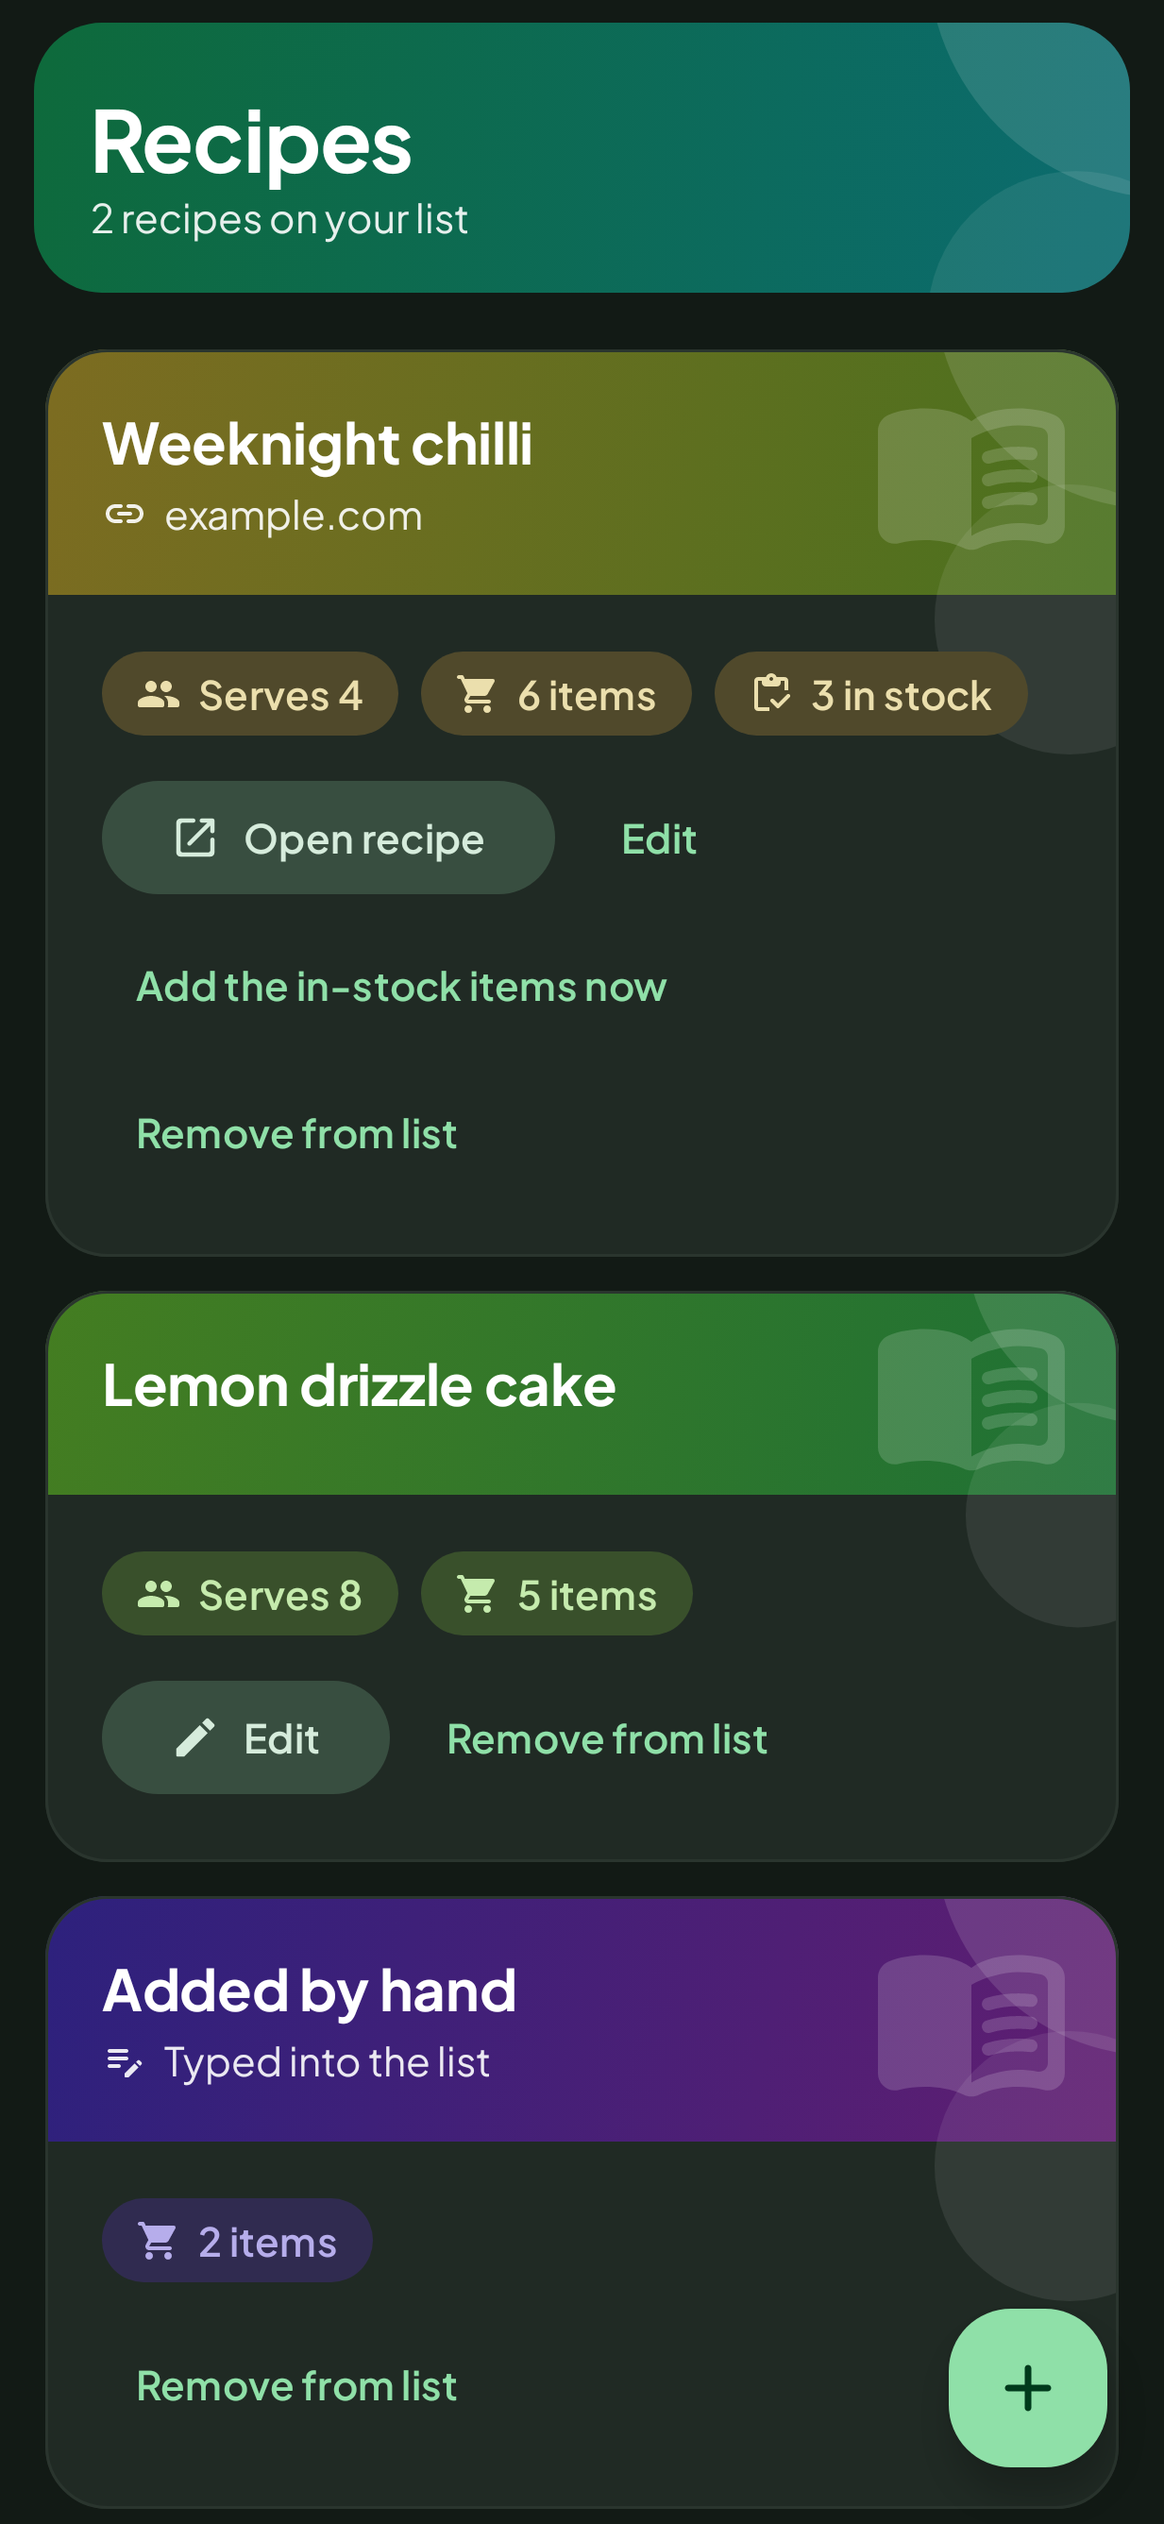
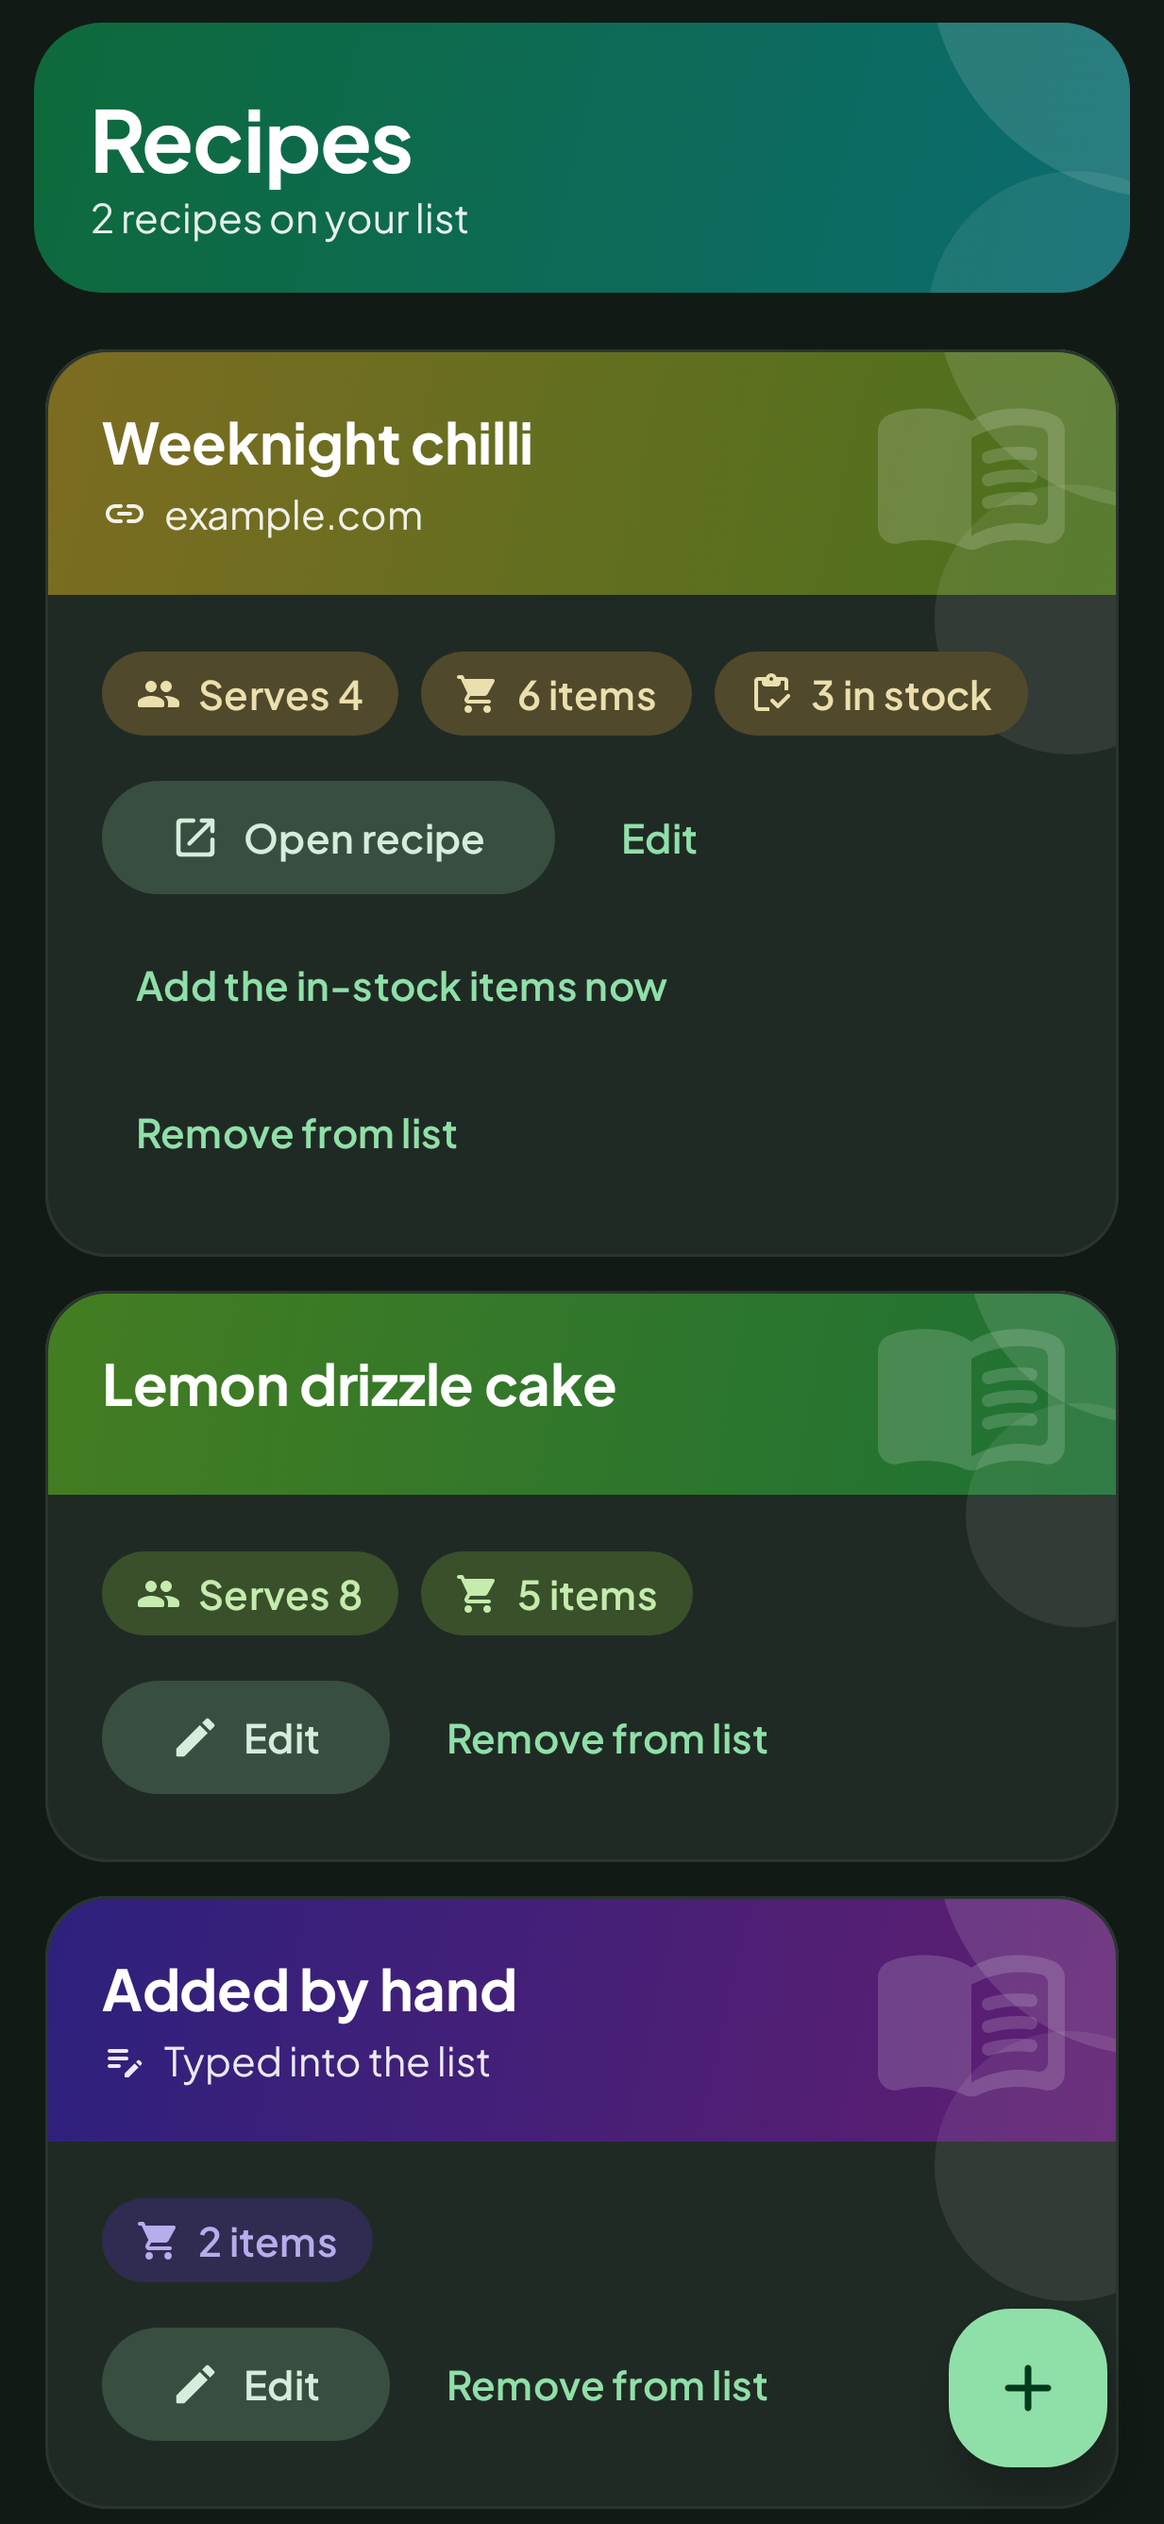
[feature] "Added by hand" can be edited like a recipe (#32)
Edit on the Added by hand card opens the review screen with its items as
lines ("500 g beef mince"): change, remove or add them, mark them in stock,
and Save puts them back as hand-added items. No recipe is kept and nothing
goes into the library, so later typed items still join the same card.
Merger.apply takes the use kind; ListRepository.apply(manual = true) and
manualLines() carry it through.

Claude-Session: https://claude.ai/code/session_016z2Qp5Lw5mkgJm6Jzuit5a

Changed region(s): [[0.0925, 0.9005, 0.6472, 0.9936]]

diff --git a/android/data/src/main/kotlin/com/robert4lyf/hypershop/data/ListRepository.kt b/android/data/src/main/kotlin/com/robert4lyf/hypershop/data/ListRepository.kt
@@ -4,6 +4,7 @@ import androidx.room.withTransaction
 import com.robert4lyf.hypershop.core.catalog.Catalog
 import com.robert4lyf.hypershop.core.catalog.CatalogLoader
 import com.robert4lyf.hypershop.core.merge.ApplyResult
+import com.robert4lyf.hypershop.core.merge.Display
 import com.robert4lyf.hypershop.core.merge.LineStatus
 import com.robert4lyf.hypershop.core.merge.Merger
 import com.robert4lyf.hypershop.core.merge.NewItem
@@ -544,6 +545,26 @@ class ListRepository(
             )
         }
 
+    /**
+     * "Edit" on "Added by hand": its items as lines to review ("500 g mince"), in
+     * list order, or null when [useId] isn't the hand-added use.
+     */
+    suspend fun manualLines(useId: Long): List<String>? =
+        db.withTransaction {
+            val l = load()
+            val use = l.uses[useId]?.takeIf { it.kind == UseKind.MANUAL } ?: return@withTransaction null
+            l.contributions
+                .filter { it.useId == use.id }
+                .groupBy { it.itemId }
+                .mapNotNull { (itemId, cs) -> l.items[itemId]?.takeIf { it.deletedAt == null }?.let { it to cs } }
+                .sortedBy { (item, _) -> item.position }
+                .map { (item, cs) ->
+                    val total = cs.map { it.qty }.reduce { a, b -> a + b }
+                    val produce = item.aisle == AisleCode.PRODUCE
+                    listOfNotNull(Display.amount(total, produce = produce, hint = cs.last().unitHint), item.displayName).joinToString(" ")
+                }
+        }
+
     /** The list a review shows against: without [replacing], the use an edit replaces. */
     private fun without(
         l: ShoppingList,
@@ -583,15 +604,25 @@ class ListRepository(
         replacing: Long? = null,
         /** False for part of a recipe ("Add the in-stock items now"): the library keeps the whole one. */
         toLibrary: Boolean = true,
+        /** An edit of "Added by hand": the lines go back as hand-added items, with no recipe kept. */
+        manual: Boolean = false,
     ): ApplyResult =
         db.withTransaction {
             val old = load()
             val oldRecipe = replacing?.let { old.uses[it]?.recipeId }
-            when (val r = merger.apply(without(old, replacing), preview, clock())) {
+            val kind = if (manual) UseKind.MANUAL else UseKind.RECIPE
+            when (val r = merger.apply(without(old, replacing), preview, clock(), kind)) {
                 is ApplyResult.Applied -> {
                     persist(old, r.list)
-                    dao.putDecisions(preview.lineStatus.map { (line, s) -> LineDecisionEntity(r.useId, line, s.name) })
                     jobId?.let { dao.setJobState(it, "DONE") }
+                    if (manual) {
+                        // The review's stored copy was only there to be reviewed.
+                        preview.incoming.recipeId?.let { id ->
+                            db.openHelper.writableDatabase.execSQL("DELETE FROM Recipe WHERE id = ?", arrayOf(id))
+                        }
+                        return@withTransaction r
+                    }
+                    dao.putDecisions(preview.lineStatus.map { (line, s) -> LineDecisionEntity(r.useId, line, s.name) })
                     if (toLibrary) preview.incoming.recipeId?.let { addedToLibrary(it) }
                     // The edited recipe was stored afresh; the old one goes once nothing uses it.
                     if (oldRecipe != null && oldRecipe != preview.incoming.recipeId && dao.uses().none { it.recipeId == oldRecipe }) {

diff --git a/android/app/src/test/java/com/robert4lyf/hypershop/ui/recipes/RecipesViewModelTest.kt b/android/app/src/test/java/com/robert4lyf/hypershop/ui/recipes/RecipesViewModelTest.kt
@@ -254,6 +254,45 @@ class RecipesViewModelTest {
     }
 
     @Test
+    fun addedByHandCanBeEditedLikeARecipe() {
+        val c = TestContainer.create()
+        runBlocking {
+            for (line in listOf("2 onions", "500g beef mince")) {
+                val p = c.ruleParser.parse(line)
+                c.repository.manualAdd(p.name, p.shopBase(UnitLocale.METRIC), p.shopUnit)
+            }
+        }
+        val vm = RecipesViewModel(c).shown()
+        val byHand = await(vm.ui) { it.uses.isNotEmpty() }.uses.single()
+        assertEquals(null, byHand.recipeId)
+        vm.edit(byHand)
+        val edit = ReviewViewModel(c, nextReview(vm))
+        val keys = { s: ReviewState -> (s as? ReviewState.Ready)?.ui?.aisles?.flatMap { it.second }?.map { it.key }.orEmpty() }
+        val ready = (await(edit.state) { it is ReviewState.Ready } as ReviewState.Ready).ui
+        assertTrue(ready.editing && ready.byHand && !ready.cookbook)
+        assertEquals(setOf("cat:onion", "cat:beef_mince"), keys(edit.state.value).toSet())
+        edit.removeLine(edit.sheet("cat:onion")!!.lines.single().id)
+        await(edit.state) { "cat:onion" !in keys(it) }
+        edit.addLine("1 leek")
+        await(edit.state) { "cat:leek" in keys(it) }
+        edit.confirm()
+        await(edit.state) { it is ReviewState.Added }
+        // Still hand-added: one use with no recipe, and nothing in the library.
+        val after = await(vm.ui) { u -> u.uses.singleOrNull()?.itemCount == 2 }
+        assertEquals(null, after.uses.single().recipeId)
+        assertEquals("Added by hand", after.uses.single().title)
+        assertTrue(after.library.isEmpty())
+        val list = runBlocking { c.repository.snapshot() }
+        assertEquals(setOf("cat:beef_mince", "cat:leek"), list.liveItems.map { it.mergeKey }.toSet())
+        // A new typed item joins the same card.
+        runBlocking {
+            val p = c.ruleParser.parse("milk")
+            c.repository.manualAdd(p.name, p.shopBase(UnitLocale.METRIC), p.shopUnit)
+        }
+        assertEquals(3, await(vm.ui) { u -> u.uses.singleOrNull()?.itemCount == 3 }.uses.single().itemCount)
+    }
+
+    @Test
     fun aSavedRecipeOpensWithItsIngredients() {
         val c = TestContainer.create()
         c.add(*CHILLI)

diff --git a/android/app/src/main/java/com/robert4lyf/hypershop/ui/review/ReviewScreen.kt b/android/app/src/main/java/com/robert4lyf/hypershop/ui/review/ReviewScreen.kt
@@ -291,7 +291,16 @@ private fun Hero(
                             }
                         }
                     }
-                    Badge.RULES -> Badge("Parsed offline", Icons.Rounded.CloudOff, centred, onClick = { explainOffline = true })
+                    // Typed by hand: there is nothing for Claude to have read.
+                    Badge.RULES ->
+                        if (!ui.byHand) {
+                            Badge(
+                                "Parsed offline",
+                                Icons.Rounded.CloudOff,
+                                centred,
+                                onClick = { explainOffline = true },
+                            )
+                        }
                 }
                 if (ui.retrying) {
                     CircularProgressIndicator(centred.size(20.dp), color = Brand.OnHero, strokeWidth = 2.dp)
@@ -313,8 +322,10 @@ private fun Hero(
                         Text(ui.summary, Modifier.testTag("summary"), style = MaterialTheme.typography.bodyMedium, color = Brand.OnHero)
                     }
                 }
-                IconButton(onClick = { renaming = true }, modifier = Modifier.testTag("edit-title")) {
-                    Icon(Icons.Rounded.Edit, contentDescription = "Rename recipe", tint = Brand.OnHero)
+                if (!ui.byHand) {
+                    IconButton(onClick = { renaming = true }, modifier = Modifier.testTag("edit-title")) {
+                        Icon(Icons.Rounded.Edit, contentDescription = "Rename recipe", tint = Brand.OnHero)
+                    }
                 }
             }
             if (ui.cookbook) {
@@ -333,7 +344,7 @@ private fun Hero(
                 horizontalArrangement = Arrangement.spacedBy(12.dp),
                 verticalArrangement = Arrangement.spacedBy(4.dp),
             ) {
-                Servings(ui.servings, ui.originalServings, onServings, Modifier.align(Alignment.CenterVertically))
+                if (!ui.byHand) Servings(ui.servings, ui.originalServings, onServings, Modifier.align(Alignment.CenterVertically))
                 ui.url?.let { url ->
                     TextButton(
                         onClick = { open(url) },

diff --git a/android/core/src/main/kotlin/com/robert4lyf/hypershop/core/merge/Merger.kt b/android/core/src/main/kotlin/com/robert4lyf/hypershop/core/merge/Merger.kt
@@ -174,23 +174,29 @@ class Merger(
         return Preview(incoming, rows, contributions, status, shown)
     }
 
-    /** One transaction: re-check every rev shown, then insert. */
+    /**
+     * One transaction: re-check every rev shown, then insert. [kind] MANUAL puts the
+     * lines in a hand-added use, with no recipe behind it (an edit of "Added by hand").
+     */
     fun apply(
         list: ShoppingList,
         preview: Preview,
         now: Long,
+        kind: UseKind = UseKind.RECIPE,
     ): ApplyResult {
         for ((key, shown) in preview.shownRevs) {
             if (list.itemByKey(key)?.let { it.id to it.rev } != shown) return ApplyResult.Stale
         }
-        val use = RecipeUse(list.nextId, preview.incoming.recipeId, UseKind.RECIPE, preview.incoming.servings ?: 1, now)
+        val manual = kind == UseKind.MANUAL
+        val use = RecipeUse(list.nextId, preview.incoming.recipeId.takeIf { !manual }, kind, preview.incoming.servings ?: 1, now)
         var l = list.copy(uses = list.uses + (use.id to use), nextId = list.nextId + 1)
         val createdRev = list.listRev + 1
         val touched = HashSet<Long>()
         val targets = preview.rows.associate { it.target.mergeKey to it.target }
         for (pc in preview.contributions) {
             val (l2, itemId) = l.ensureItem(targets.getValue(pc.mergeKey))
-            val c = Contribution(l2.nextId, use.id, pc.recipeLineId, itemId, pc.qty, pc.noScale, createdRev, unitHint = pc.unitHint)
+            val line = pc.recipeLineId.takeIf { !manual }
+            val c = Contribution(l2.nextId, use.id, line, itemId, pc.qty, pc.noScale, createdRev, unitHint = pc.unitHint)
             l = l2.copy(contributions = l2.contributions + c, nextId = l2.nextId + 1)
             touched += itemId
         }

diff --git a/android/app/src/main/java/com/robert4lyf/hypershop/ui/review/ReviewViewModel.kt b/android/app/src/main/java/com/robert4lyf/hypershop/ui/review/ReviewViewModel.kt
@@ -106,6 +106,8 @@ data class ReviewUi(
     val originalServings: Int? = null,
     /** "Retry with Claude" is running (a [busy] that can be stopped). */
     val retrying: Boolean = false,
+    /** "Added by hand" being edited: no name or book to change. */
+    val byHand: Boolean = false,
     /** No web page: a cookbook recipe, which can carry its book and page. */
     val cookbook: Boolean = false,
     val book: String? = null,
@@ -431,7 +433,8 @@ class ReviewViewModel(
                     claudeNote = claudeNote(r),
                     originalServings = r.servings,
                     retrying = retrying,
-                    cookbook = webLink(r.url) == null,
+                    cookbook = webLink(r.url) == null && !r.byHand,
+                    byHand = r.byHand,
                     book = r.book,
                     page = r.page,
                 ),
@@ -575,7 +578,16 @@ class ReviewViewModel(
             try {
                 val p = preview ?: return@act
                 // "Add the in-stock items now" is part of a recipe: the library keeps the whole one.
-                when (val r = c.repository.apply(p, jobId, replacing, toLibrary = result?.method != "IN_STOCK")) {
+                when (
+                    val r =
+                        c.repository.apply(
+                            p,
+                            jobId,
+                            replacing,
+                            toLibrary = result?.method != "IN_STOCK",
+                            manual = result?.byHand == true,
+                        )
+                ) {
                     is ApplyResult.Applied -> {
                         _state.value = ReviewState.Added(r.added, r.useId, replacing?.let { result?.title ?: "Recipe" })
                     }

diff --git a/android/app/src/main/java/com/robert4lyf/hypershop/ui/recipes/RecipesViewModel.kt b/android/app/src/main/java/com/robert4lyf/hypershop/ui/recipes/RecipesViewModel.kt
@@ -298,6 +298,10 @@ class RecipesViewModel(
      */
     fun edit(use: UseSummary) =
         viewModelScope.launch {
+            if (use.recipeId == null) {
+                editByHand(use)
+                return@launch
+            }
             val src = c.repository.editSource(use.useId) ?: return@launch
             val r = src.recipe
             val result =
@@ -321,6 +325,24 @@ class RecipesViewModel(
                 )
             reviews.send(c.importJobs.enqueueReady(ImportInput(r.url ?: "", r.title), result))
         }
+
+    /** "Edit" on "Added by hand": its items as lines on the review screen; saving puts them back by hand. */
+    private suspend fun editByHand(use: UseSummary) {
+        val raw = c.repository.manualLines(use.useId)?.takeIf { it.isNotEmpty() } ?: return
+        val result =
+            ImportResult(
+                url = null,
+                title = use.title,
+                servings = null,
+                locale = UnitLocale.METRIC,
+                method = ImportResult.BY_HAND,
+                lines = c.ruleParser.parseLines(raw),
+                rawLines = raw,
+                preTick = false,
+                editsUse = use.useId,
+            )
+        reviews.send(c.importJobs.enqueueReady(ImportInput("", use.title), result))
+    }
 
     /**
      * "+ › Photo of a recipe": the photo is saved, scaled down, and reviewed like a

diff --git a/android/app/src/main/java/com/robert4lyf/hypershop/ui/recipes/RecipesRoute.kt b/android/app/src/main/java/com/robert4lyf/hypershop/ui/recipes/RecipesRoute.kt
@@ -498,8 +498,6 @@ private fun UseCard(
                 }
                 // One filled button for the main thing, the rest as text; wraps on narrow
                 // phones and large text instead of squeezing the last button.
-                // Only recipes can be edited ("Added by hand" items are edited on the list).
-                val canEdit = use.recipeId != null
                 FlowRow(
                     horizontalArrangement = Arrangement.spacedBy(8.dp),
                     verticalArrangement = Arrangement.spacedBy(4.dp),
@@ -511,8 +509,8 @@ private fun UseCard(
                             Spacer(Modifier.size(8.dp))
                             Text("Open recipe")
                         }
-                        if (canEdit) TextButton(onClick = onEdit, modifier = Modifier.testTag("edit-${use.useId}")) { Text("Edit") }
-                    } else if (canEdit) {
+                        TextButton(onClick = onEdit, modifier = Modifier.testTag("edit-${use.useId}")) { Text("Edit") }
+                    } else {
                         FilledTonalButton(onClick = onEdit, modifier = Modifier.testTag("edit-${use.useId}")) {
                             Icon(Icons.Rounded.Edit, contentDescription = null, modifier = Modifier.size(18.dp))
                             Spacer(Modifier.size(8.dp))

diff --git a/android/app/src/main/java/com/robert4lyf/hypershop/importing/ImportModels.kt b/android/app/src/main/java/com/robert4lyf/hypershop/importing/ImportModels.kt
@@ -54,4 +54,11 @@ data class ImportResult(
     /** A cookbook recipe's book and page, as typed (photo or typed in; editable on review). */
     val book: String? = null,
     val page: String? = null,
-)
+) {
+    /** "Added by hand" opened for editing: no recipe, no book, saved back as hand-added items. */
+    val byHand: Boolean get() = method == BY_HAND
+
+    companion object {
+        const val BY_HAND = "BY_HAND"
+    }
+}
